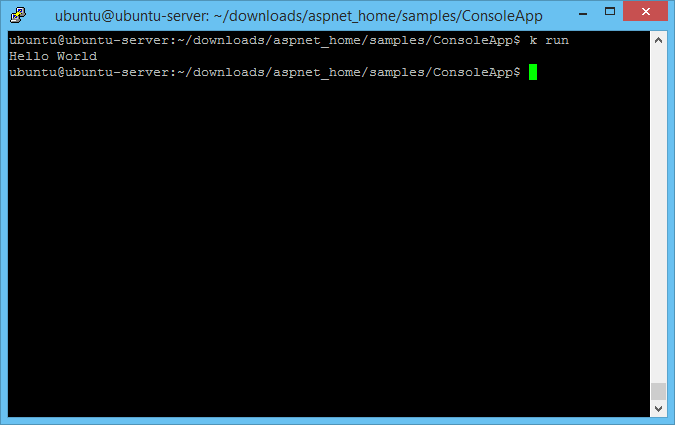
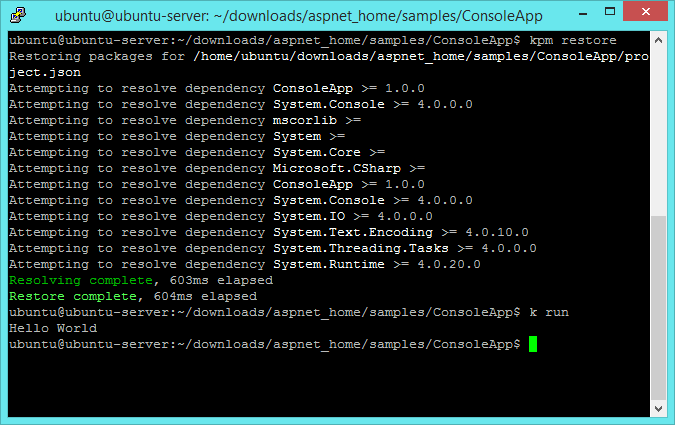
aspnet vnext under mono

diff --git a/_drafts/try-aspnet-vnext-under-mono.md b/_drafts/try-aspnet-vnext-under-mono.md
@@ -8,7 +8,18 @@ tags: [Mono, MVC, Linux]
 
 ## 从源代码编译最新版本的 mono
 
+网上已经有很多从源代码安装 mono 的资料了， 所以就不再啰嗦了， 没有做过的可以参考这两篇文章：
+
+- [在 Ubuntu Server 上安装配置 Mono 生产环境][2]
+- [CentOS 6.3下 安装 Mono 3.2 和Jexus 5.4][3]
+
+推荐用 git 从源代码获取 mono 源代码的方式来编译安装， 以后更新也很方便。 我获取 mono 最新版
+源代码编译安装之后， 版本信息如下图所示：
+
 ![Mono v3.6.1](/assets/post-images/mono-v3.6.1.png)
+
+对于某些 linux 发行版， 可能还没有下列网站的 https 证书， 因此需要导入并同步一下几个网站的
+https 证书， 否则无法继续后面的 asp.net vNext 的安装 （参考自 [ASP.NET vNext on OSX and Linux][1]）。
 
     sudo certmgr -ssl -m https://go.microsoft.com
     sudo certmgr -ssl -m https://nugetgallery.blob.core.windows.net
@@ -16,27 +27,56 @@ tags: [Mono, MVC, Linux]
     sudo certmgr -ssl -m https://www.myget.org
     mozroots --import --sync
 
-## Installing KVM and the K Runtime Environment
+## 安装 KVM 和 K 运行时环境
 
-    curl https://raw.githubusercontent.com/graemechristie/Home/KvmShellImplementation/kvmsetup.sh | sh && source ~/.kre/kvm/kvm.sh && kvm upgrade
+通过下面的命令来安装 KVM 和 K 运行时：
 
-- download kvm.sh and save it in ~/.kre/kvm/kvm.sh
-- add the command to run kvm.sh on every login to bash/zsh.
-- kvm.sh will then be run via the source command. This adds the kvm command to the current shell.
-- run kvm upgrade. This will download the latest KRE package, extract it to .kre/packages and add the bin folder to your path.
+    # 克隆 aspnet_home
+    git clone https://github.com/aspnet/Home.git aspnet_home
+    # 切换到下载目录， 并执行 kvmsetup.sh
+    cd aspnet_home
+    ./kvmsetup.sh
+    # 将 ~/.kre/kvm/kvm.sh 添加到 $PATH 环境变量
+    source ~/.kre/kvm/kvm.sh
+    # 更新 kvm
+    kvm upgrade
 
-## Run asp.net Home 
+## 运行示例程序
 
-### ConsoleApp
+微软在 [https://github.com/aspnet/Home][4] 提供了三个示例程序， 分别是 `samples` 目录下的
+`ConsoleApp` 、 `HelloWeb` 和 `HelloMVC` ， 接下来分别运行这三个程序。
 
-### HelloWeb
+### 运行命令行程序 ConsoleApp
 
-### HelloMvc
+按照 ReadMe.md 中的提示， 依次输入下面的命令， 运行 ConsoleApp ：
 
-## MVC vNext
+    cd aspnet_home/samples/ConsoleApp
+    kpm restore
+    k run
 
+没有错误的话， 能看到下面的 `Hello World` 输出。
 
+![ConsoleApp](/assets/post-images/k-runtime-hello-world.png)
+
+再输入 `export KRE_TRACE=1` ， 再次运行 `k run` ， 则可以看到详细的诊断信息， 如下图所示：
+
+![ConsoleApp](/assets/post-images/k-runtime-hello-world-with-trace.png)
+
+到现在一直都是按照 ReadMe.md 中的说明进行的， 是不是有点儿小兴奋呢？ 别急， 继续运行剩下的两个
+示例程序。
+
+### 运行 web 应用程序 HelloWeb 和 HelloMvc
+
+微软并没有在 ReadMe.md 这两个例子中给出在 mono 环境下运行的方法， 按照上面的方法， 切换到例子
+所在的目录， 并执行 `kpm restore` 和 `k web` ， 果然提示出错， 无法运行： 
+
+![HelloWeb HelloMvc](/assets/post-images/k-run-hello-web-and-hello-mvc-fails.png)
+
+<div class="alert alert-danger">
+在 mono 上运行 asp.net vNext 只能到此为止了， 目前这个错误无解， 或者我还没找到 。。。
+</div>
 
 [1]: http://graemechristie.github.io/graemechristie/blog/2014/05/26/asp-dot-net-vnext-on-osx-and-linux/ "ASP.NET vNext on OSX and Linux"
 [2]: http://beginor.github.io/2013/10/15/install-and-config-mono-on-ubuntu-server.html "在 Ubuntu Server 上安装配置 Mono 生产环境"
 [3]: http://www.cnblogs.com/shanyou/p/3218611.html "CentOS 6.3下 安装 Mono 3.2 和Jexus 5.4"
+[4]: https://github.com/aspnet/Home "asp.net Home"
